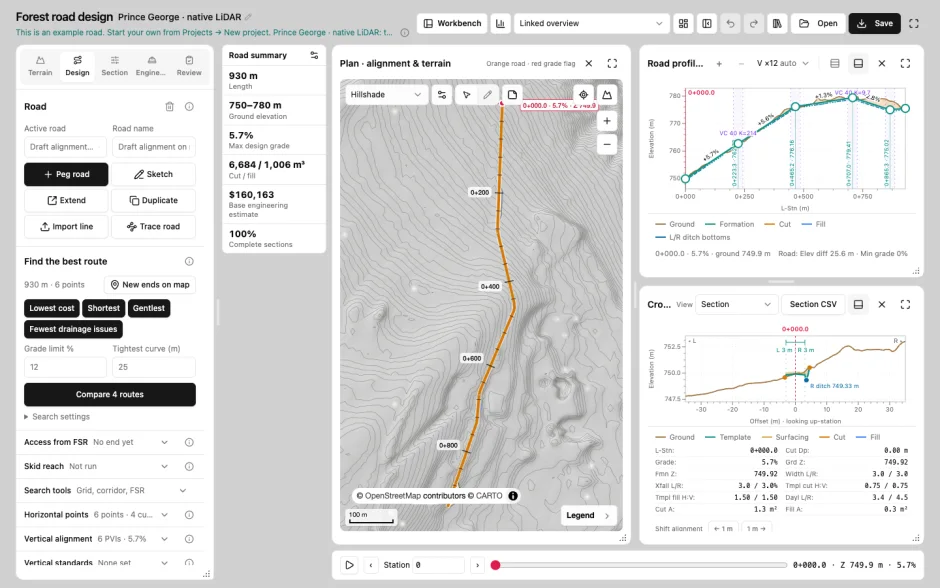
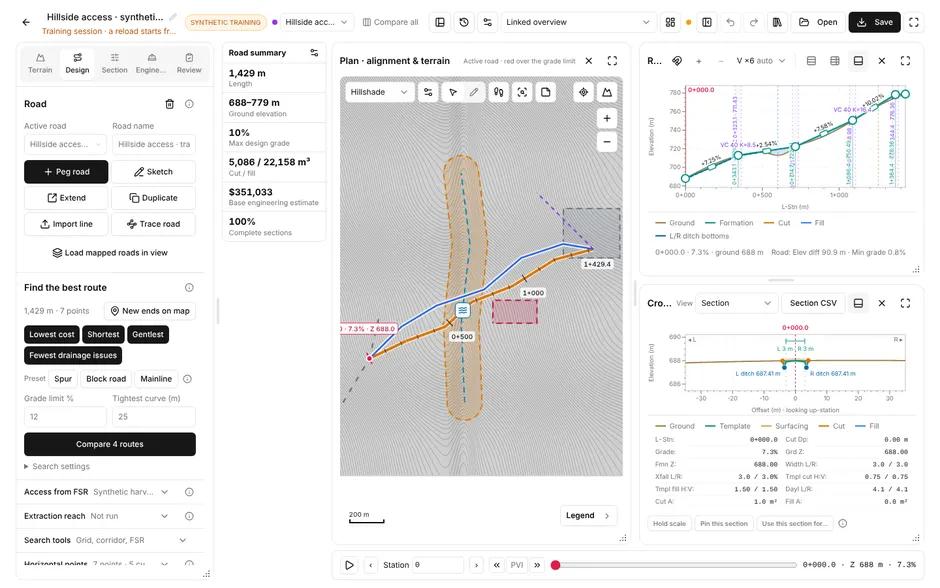
Give the engineering workbench a white background
Layouts can set panelFrame.background to "white", the page's own background
(dark in the dark theme). The workbench uses it, as the designer did before
#108; Ribbon, Guided map and Dashboard keep the grey canvas. The workbench's
chooser preview is retaken to match.

Claude-Session: https://claude.ai/code/session_017XFCai2yDz6RkGJGkEFgcE

diff --git a/src/components/interfaces/workspaceLayoutSchema.ts b/src/components/interfaces/workspaceLayoutSchema.ts
@@ -76,7 +76,7 @@ export interface LayoutToolbar<I extends string = string, C extends string = str
 }
 
 export interface PanelFrame {
-  background?: 'default' | 'gray'
+  background?: 'default' | 'gray' | 'white'
   grayPercent?: number
   inset?: number
   gap?: number
@@ -190,7 +190,9 @@ function defaultIcon<I extends string>(vocabulary: LayoutVocabulary<I, string, s
 function parsePanelFrame(value: unknown, label: string): PanelFrame {
   const source = strictObject(value, label, ['background', 'grayPercent', 'inset', 'gap', 'resizeCorners'])
   return compact({
-    background: optional(source, 'background', (v) => oneOf(v, `${label} background`, ['default', 'gray'] as const)),
+    background: optional(source, 'background', (v) =>
+      oneOf(v, `${label} background`, ['default', 'gray', 'white'] as const),
+    ),
     grayPercent: optional(source, 'grayPercent', (v) => int(v, `${label} grayPercent`, 0, 100)),
     inset: optional(source, 'inset', (v) => int(v, `${label} inset`, 0, 80)),
     gap: optional(source, 'gap', (v) => int(v, `${label} gap`, 0, 40)),

diff --git a/src/components/interfaces/workspaceLayouts.test.ts b/src/components/interfaces/workspaceLayouts.test.ts
@@ -15,6 +15,7 @@ describe('workspace layout catalog', () => {
     const layouts = parseLayoutCatalog(shipped)
     expect(layouts.map((layout) => layout.id)).toEqual(['ribbon', 'guided', 'workbench', 'dashboard'])
     expect(layouts.find((layout) => layout.id === 'dashboard')?.summary?.placement).toBe('top')
+    expect(layouts.find((layout) => layout.id === 'workbench')?.panelFrame?.background).toBe('white')
   })
 
   it('offers the interface switch from every configurable toolbar', () => {

diff --git a/src/components/ui/panel-corner.css b/src/components/ui/panel-corner.css
@@ -1,3 +1,7 @@
+.road-workspace[data-interface][data-panel-background='white'] {
+  /* The page's own background: white in the light theme, the dark background in the dark one. */
+  background: hsl(var(--background));
+}
 .road-workspace[data-interface][data-panel-background='gray'] {
   background: color-mix(in srgb, hsl(var(--foreground)) var(--workspace-panel-gray, 19%), hsl(var(--background)));
 }

diff --git a/docs/forestry-road-design/workspace-layouts.md b/docs/forestry-road-design/workspace-layouts.md
@@ -8,7 +8,7 @@ Every command is defined once, in [workspaceCommands.ts](../../src/components/in
 
 - `preset` sets the initial panel arrangement: `linked`, `split`, `plan`, `engineering`, or `pegging`. A user's saved preset takes precedence.
 - `view` can be `responsive` or `focused` (one pane at a time). `sidebar` can be `open` or `collapsed` on wide screens.
-- `panelFrame` configures the panel canvas per interface. Ribbon, Guided map and Engineering workbench use `{"background":"gray","grayPercent":19,"inset":24,"gap":14,"resizeCorners":true}`. Raise `grayPercent` for stronger contrast against the panel cards. The inset sets the outer side margins in pixels and adapts on phones. The gap separates the guide or docked settings from the working view. Maps, charts, data panels and settings share the same dotted corner grip. Drag it to resize, or focus it and use the arrow keys. Double-click or press Enter to reset. Named screen layouts keep their own sizes.
+- `panelFrame` configures the panel canvas per interface. `background` is `default`, `gray` or `white`. Ribbon, Guided map and Dashboard use `{"background":"gray","grayPercent":19,"inset":24,"gap":14,"resizeCorners":true}`; raise `grayPercent` for stronger contrast against the panel cards. The Engineering workbench uses `"white"`, the page's own background (dark in the dark theme). The inset sets the outer side margins in pixels and adapts on phones. The gap separates the guide or docked settings from the working view. Maps, charts, data panels and settings share the same dotted corner grip. Drag it to resize, or focus it and use the arrow keys. Double-click or press Enter to reset. Named screen layouts keep their own sizes.
 - **View → Road summary settings** controls the measurement stack beside the drawing. Right-click a measurement to open its display setting. Choose **Hidden**, **Value**, or **Value and detail** for each measurement, switch between **Left stack** and **Top row**, or hide the whole summary. On narrow or short screens, **Road summary** expands the measurements. Guided map and Engineering workbench also provide a settings button in the header.
 - Each interface can set its own defaults, for example `"summary": {"visible":true,"placement":"left","metrics":{"length":"detailed","cost":"hidden"}}`. Supported measurement keys are `length`, `elevation`, `grade`, `grade-range`, `earthworks`, `cost`, and `coverage`. Available measurements depend on the selected road. Browser preferences are saved per interface, and **Restore defaults** reapplies the layout configuration.
 - `toolbar` is optional. Set `dock` to `top` or `side`, then list groups and command IDs in display order. Set `toolbar.fullWidth` to `true` to extend a top ribbon to both side edges. When the ribbon is the first row, it sits flush with the top of the workspace. The panels below use their configured inset. For an Office-style ribbon, use `header: "controls"`. Give each tab named `sections` of `items` to arrange commands alongside the `projectInfo`, `roadSelector`, `terrainSource`, and `presets` controls. The interface switch stays beside the tabs. Older configurations using `includeProjectHeader` still support the single header row. Reuse IDs from the [shared command catalog](../../src/components/interfaces/workspaceCommands.ts). The workspace owns execution, editing history and file handling.
